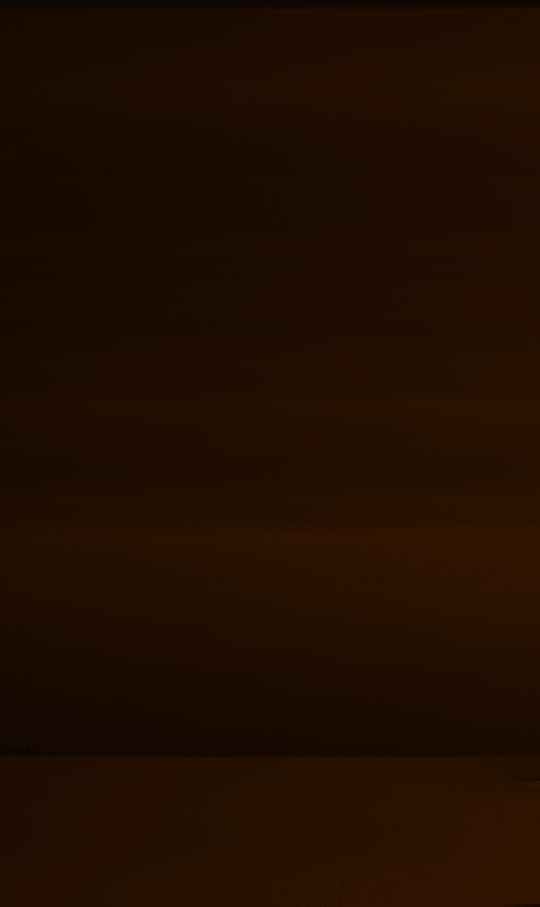
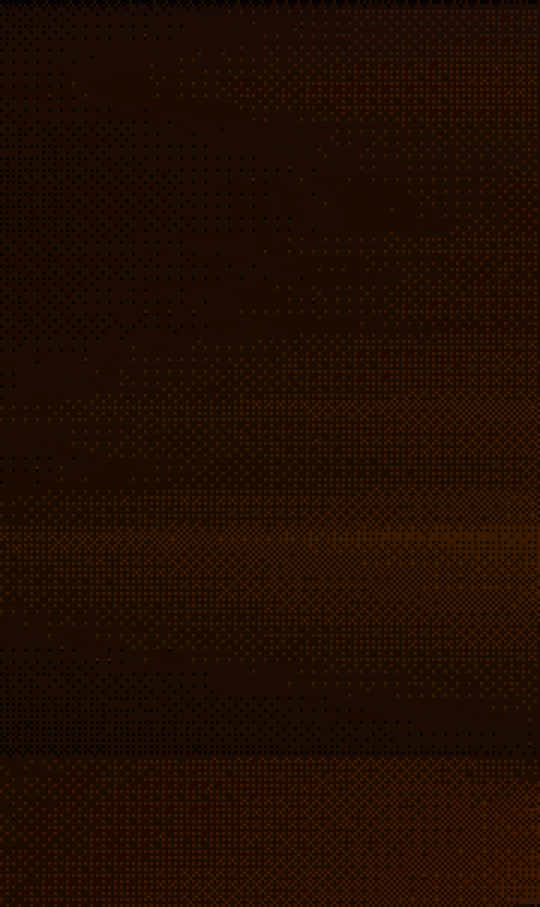
Pixel-art shading: banded light with a checker dither; clean plant spot
Light is now stepped into clean brightness bands dithered in a fixed 4x4 checker (no noisy diffusion), so the lamp's glow, the notepad and the desk shade like pixel art instead of an airbrush; the room is sharpened harder first so the Xbox and notepad hold their edges. The mockup's own plant is cleared further (its dark halo and the leaf lying on the Xbox's corner), so only the live plant shows.

diff --git a/scripts/mockup-room.js b/scripts/mockup-room.js
@@ -39,7 +39,7 @@ const CLEAR = [
   // the sticky note, the mug and its steam, the plant, the lava lamp
   { name: 'note', inside: (x, y) => rect(x, y, 272, 316, 390, 428) },
   { name: 'mug', split: true, inside: (x, y) => rect(x, y, 224, 450, 352, 674) || rect(x, y, 206, 450, 224, 560) || ell(x, y, 276, 656, 58, 17) || ell(x, y, 336, 602, 26, 46) || rect(x, y, 240, 462, 310, 542) },
-  { name: 'plant', split: true, inside: (x, y) => inPoly(x, y, [[858, 440], [896, 362], [962, 356], [1012, 404], [1050, 468], [1052, 562], [1012, 640], [994, 658], [902, 658], [866, 622], [852, 560]]) && !inPoly(x, y, XBOX) && !rect(x, y, 948, 278, 1074, 440) },
+  { name: 'plant', split: true, inside: (x, y) => inPoly(x, y, [[858, 440], [896, 362], [962, 356], [1012, 404], [1050, 468], [1052, 562], [1012, 640], [994, 658], [902, 658], [866, 622], [852, 560]]) && !(inPoly(x, y, XBOX) && !ell(x, y, 1002, 573, 32, 17)) && !rect(x, y, 948, 278, 1074, 440) },
   { name: 'lava', split: true, inside: (x, y) => rect(x, y, 1224, 434, 1298, 650) && !inPoly(x, y, XBOX) },
 ];
 
@@ -322,8 +322,18 @@ function coaster(img, lit) {
 const PIX = 3;
 async function pixelize(buf, w) {
   const gw = Math.round(w / PIX), gh = Math.round(H / PIX);
-  const small = await sharp(buf, { raw: { width: w, height: H, channels: 3 } }).sharpen({ sigma: 1.1, m1: 0.6, m2: 1.4 }).resize(gw, gh, { kernel: 'lanczos3' }).png({ palette: true, colours: 200, dither: 0.35 }).toBuffer();
-  return sharp(small).removeAlpha().resize(w, H, { kernel: 'nearest' }).raw().toBuffer();
+  const small = await sharp(buf, { raw: { width: w, height: H, channels: 3 } }).sharpen({ sigma: 1.4, m1: 0.8, m2: 2.2 }).resize(gw, gh, { kernel: 'lanczos3' }).raw().toBuffer();
+  // light in clean bands, as pixel art shades it: each pixel's brightness stepped to one of LEVELS, the steps
+  // dithered in a fixed 4 x 4 checker (never noise), its hue kept
+  const LEVELS = 16, B4 = [0, 8, 2, 10, 12, 4, 14, 6, 3, 11, 1, 9, 15, 7, 13, 5];
+  for (let y = 0; y < gh; y++) for (let x = 0; x < gw; x++) {
+    const o = (y * gw + x) * 3, r = small[o], g = small[o + 1], b = small[o + 2];
+    const L = Math.max(1, 0.299 * r + 0.587 * g + 0.114 * b), t = (B4[(y & 3) * 4 + (x & 3)] + 0.5) / 16;
+    const q = Math.min(LEVELS, Math.floor((L / 255) * LEVELS + t)), Lq = Math.max(4, (q / LEVELS) * 255), k = Lq / L;
+    small[o] = clamp(Math.round(r * k), 0, 255); small[o + 1] = clamp(Math.round(g * k), 0, 255); small[o + 2] = clamp(Math.round(b * k), 0, 255);
+  }
+  const pal = await sharp(small, { raw: { width: gw, height: gh, channels: 3 } }).png({ palette: true, colours: 160, dither: 0 }).toBuffer();
+  return sharp(pal).removeAlpha().resize(w, H, { kernel: 'nearest' }).raw().toBuffer();
 }
 
 const saveWebp = async (buf, w, file) => { await sharp(buf, { raw: { width: w, height: H, channels: 3 } }).webp({ lossless: true, effort: 6 }).toFile(file + '.tmp'); fs.renameSync(file + '.tmp', file); };
@@ -334,7 +344,18 @@ const savePng = (buf, w, file) => sharp(buf, { raw: { width: w, height: H, chann
   for (const r of CLEAR) {
     const mask = new Uint8Array(W * H);
     for (let y = 0; y < H; y++) for (let x = 0; x < W; x++) if (r.inside((x + 0.5) / K, (y + 0.5) / K)) mask[y * W + x] = 1;
-    fill(img, mask);
+    // grown 4 px (the thing's own soft edge and shadow go with it), not into the Xbox
+    const grown = Uint8Array.from(mask);
+    for (let y = 0; y < H; y++) for (let x = 0; x < W; x++) {
+      if (!mask[y * W + x]) continue;
+      for (let dy = -4; dy <= 4; dy++) for (let dx = -4; dx <= 4; dx++) {
+        const X = x + dx, Y = y + dy; if (X < 0 || Y < 0 || X >= W || Y >= H) continue;
+        if (r.split && inPoly((X + 0.5) / K, (Y + 0.5) / K, XBOX) && !ell((X + 0.5) / K, (Y + 0.5) / K, 1002, 573, 32, 17)) continue;
+        if (r.name.startsWith('deck') || r.name.startsWith('book')) continue;
+        grown[Y * W + X] = 1;
+      }
+    }
+    fill(img, grown);
   }
   shiftLamp(img);
   const off0 = lampOff(img);
